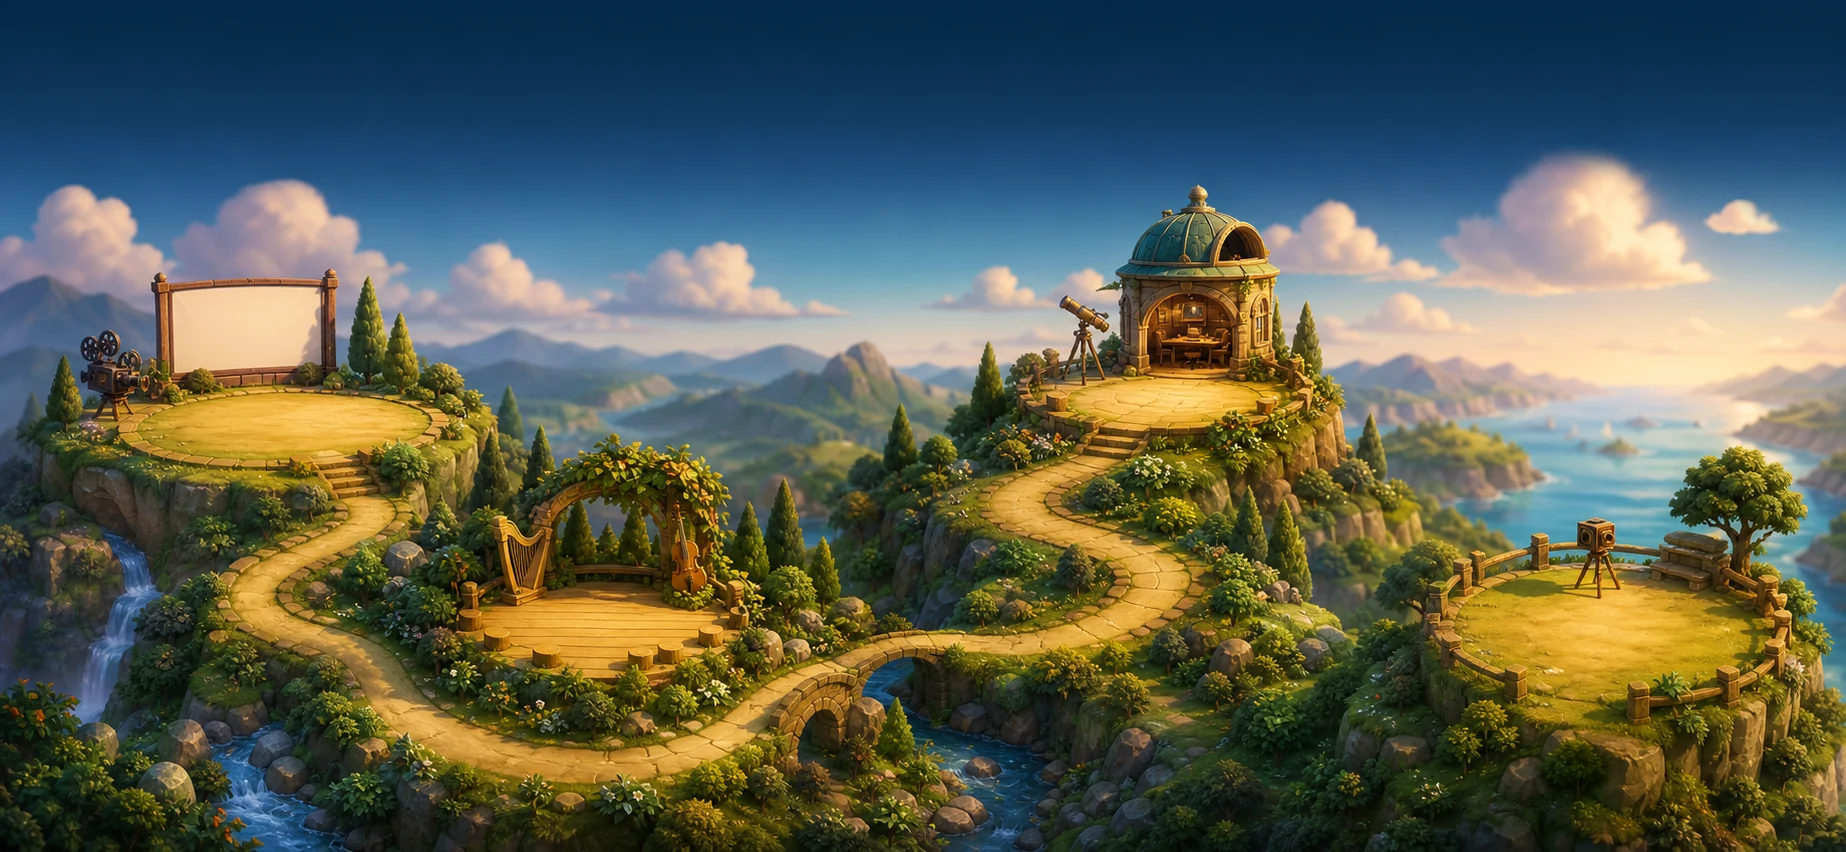
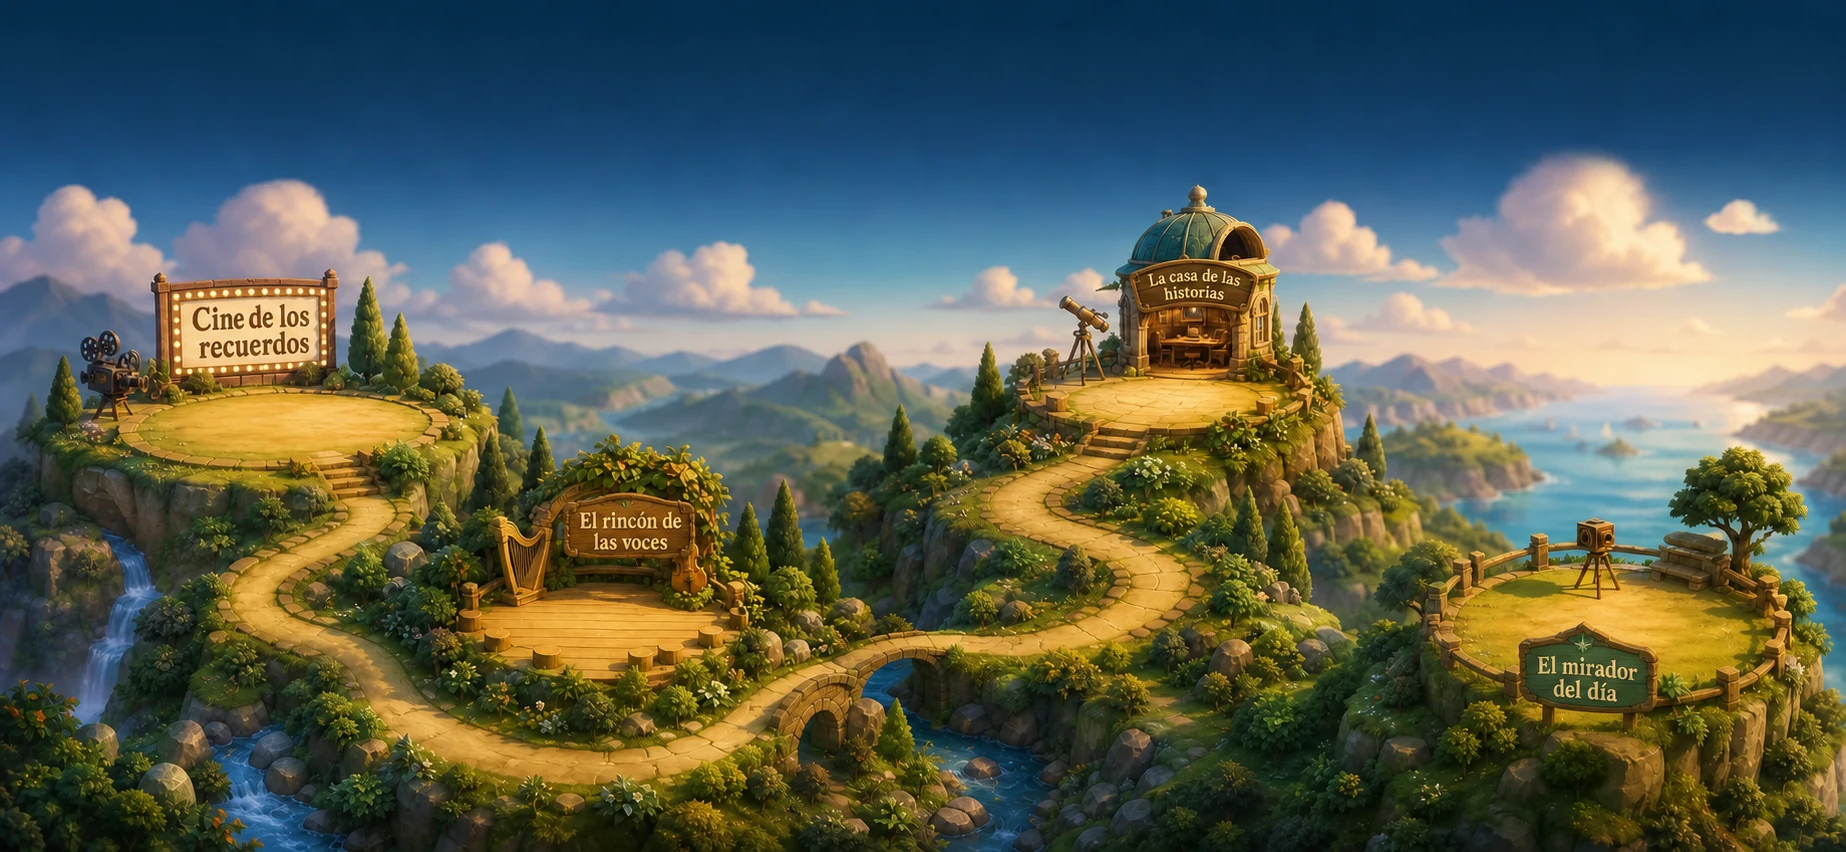
feat: embed destination signs into map art

diff --git a/src/features/home/HomePage.tsx b/src/features/home/HomePage.tsx
@@ -120,9 +120,7 @@ export default function HomePage() {
               onClick={(event) => visitWorld(event, world)}
               aria-label={`${world.action}: ${world.title}`}
               style={{ "--world-order": index } as CSSProperties}
-            >
-              <span className="adventure-world__name adventure-world__sign">{world.title}</span>
-            </button>
+            />
           ))}
         </div>
       </main>
